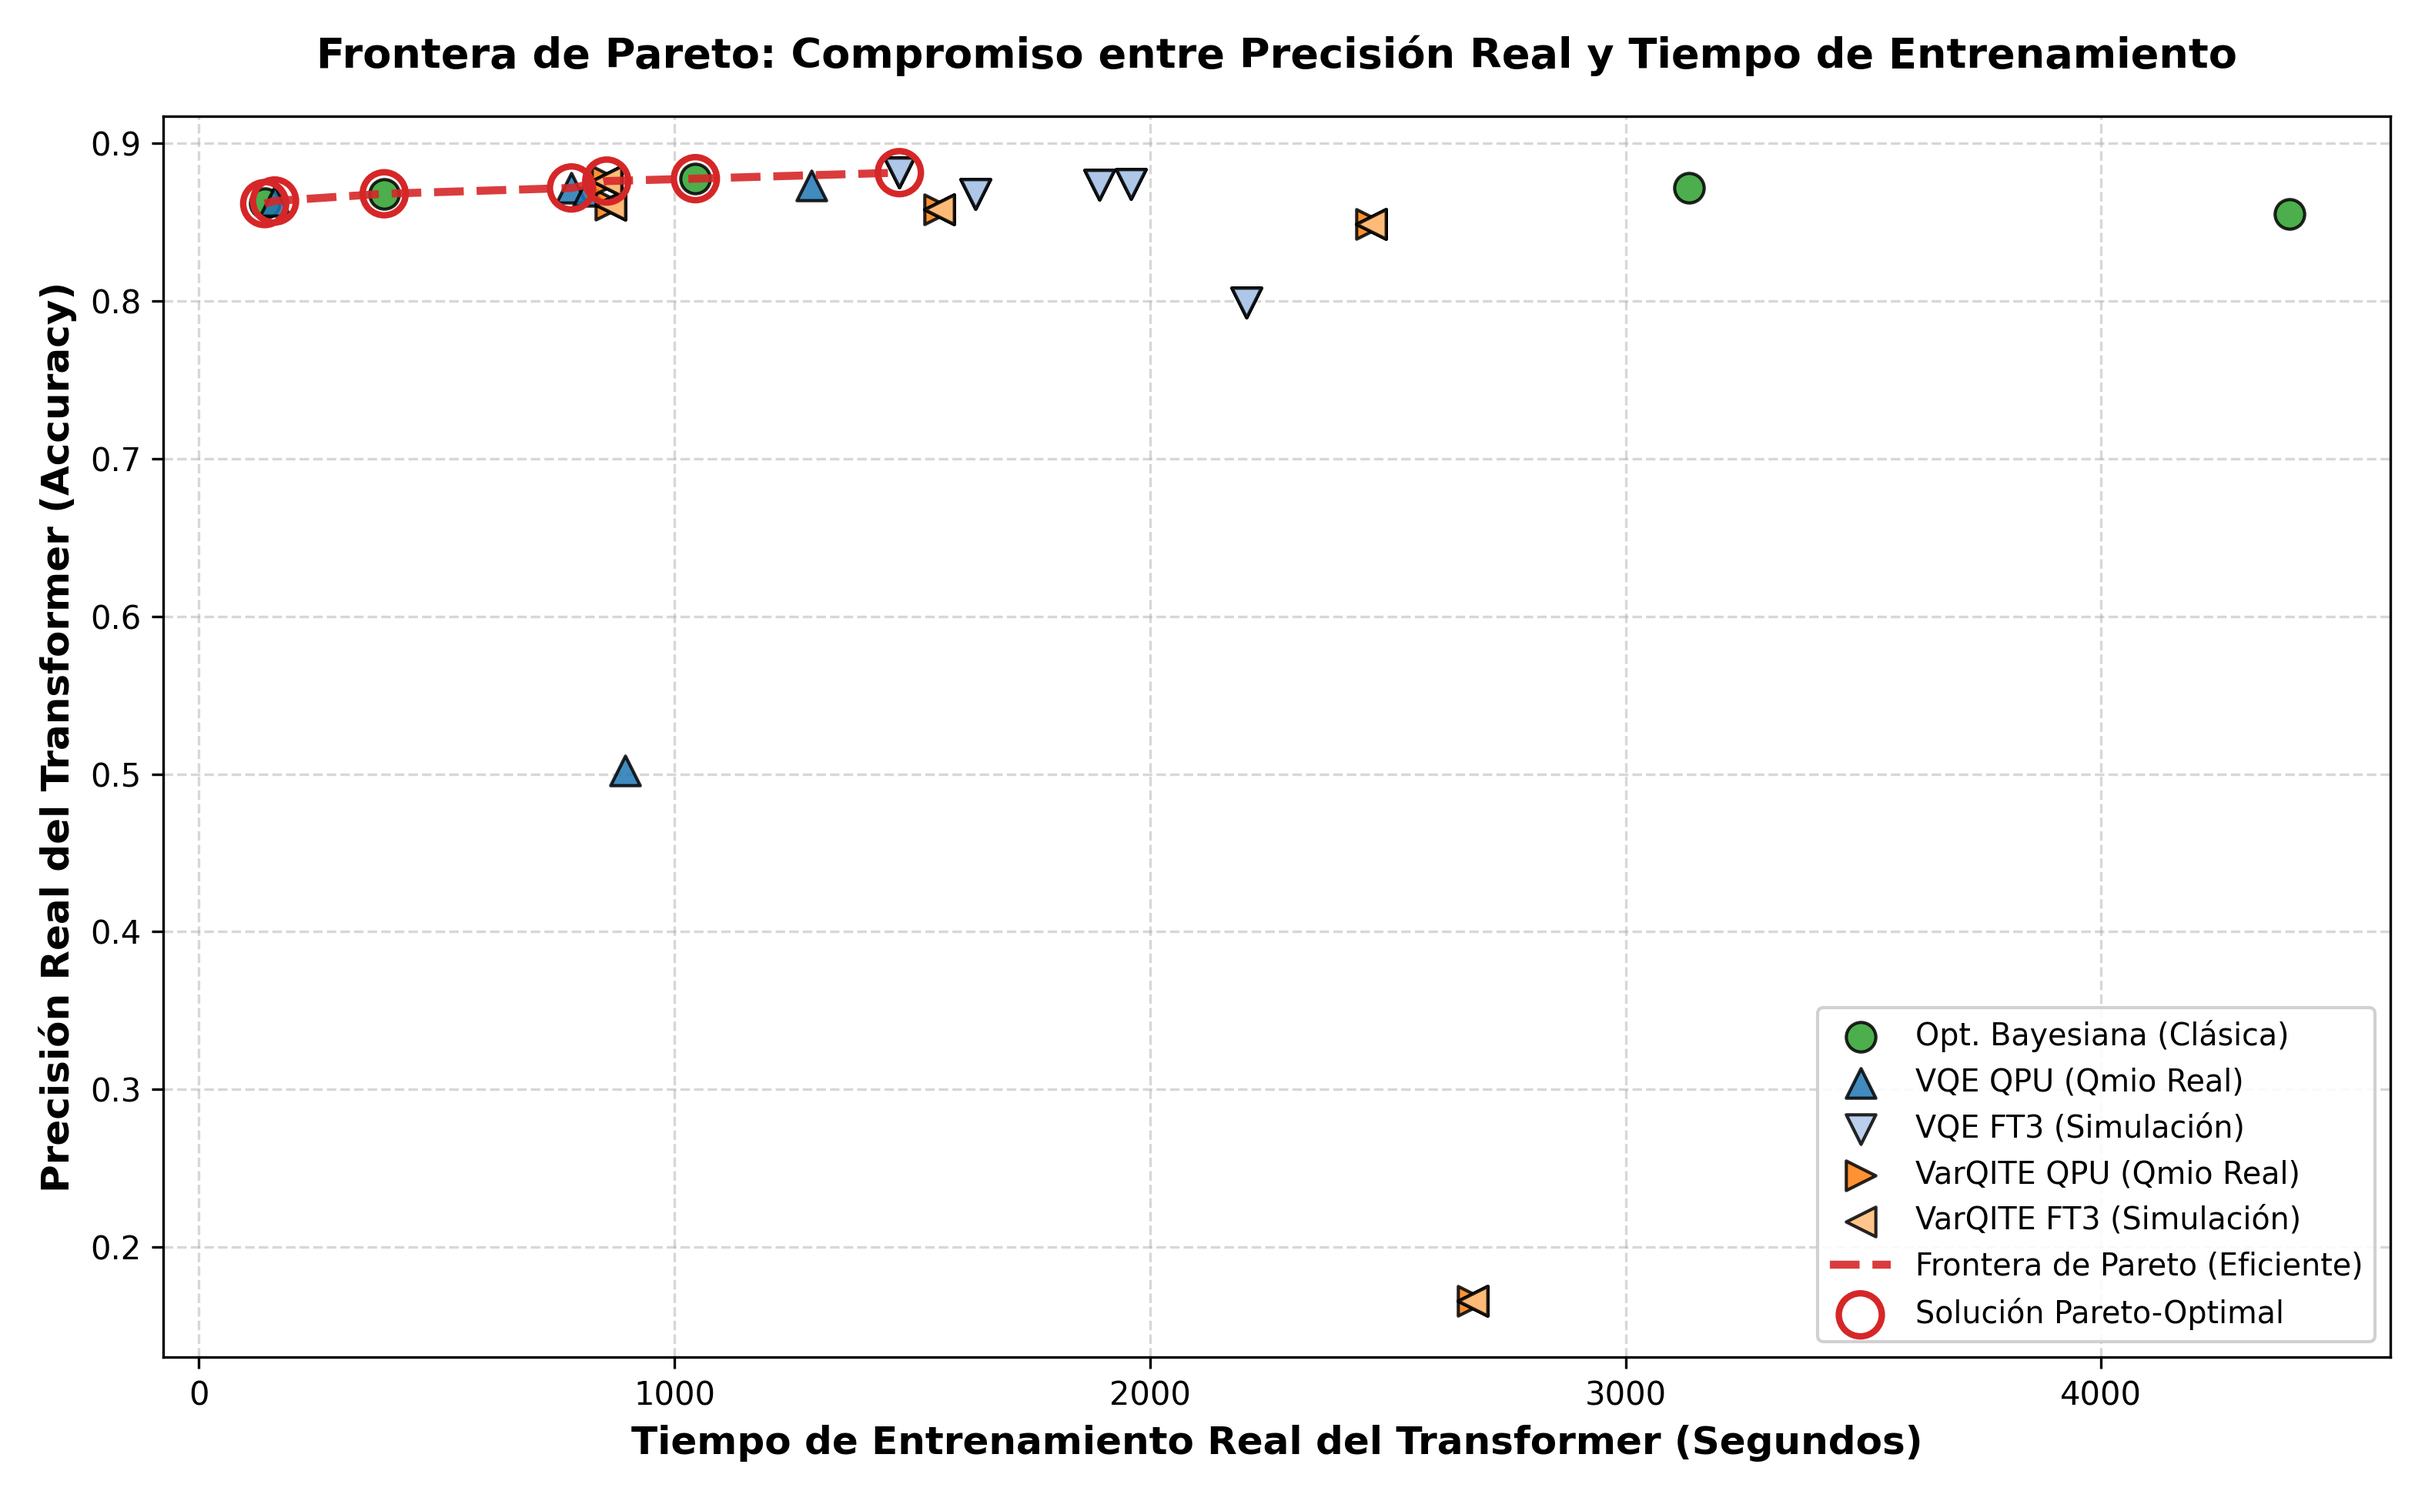
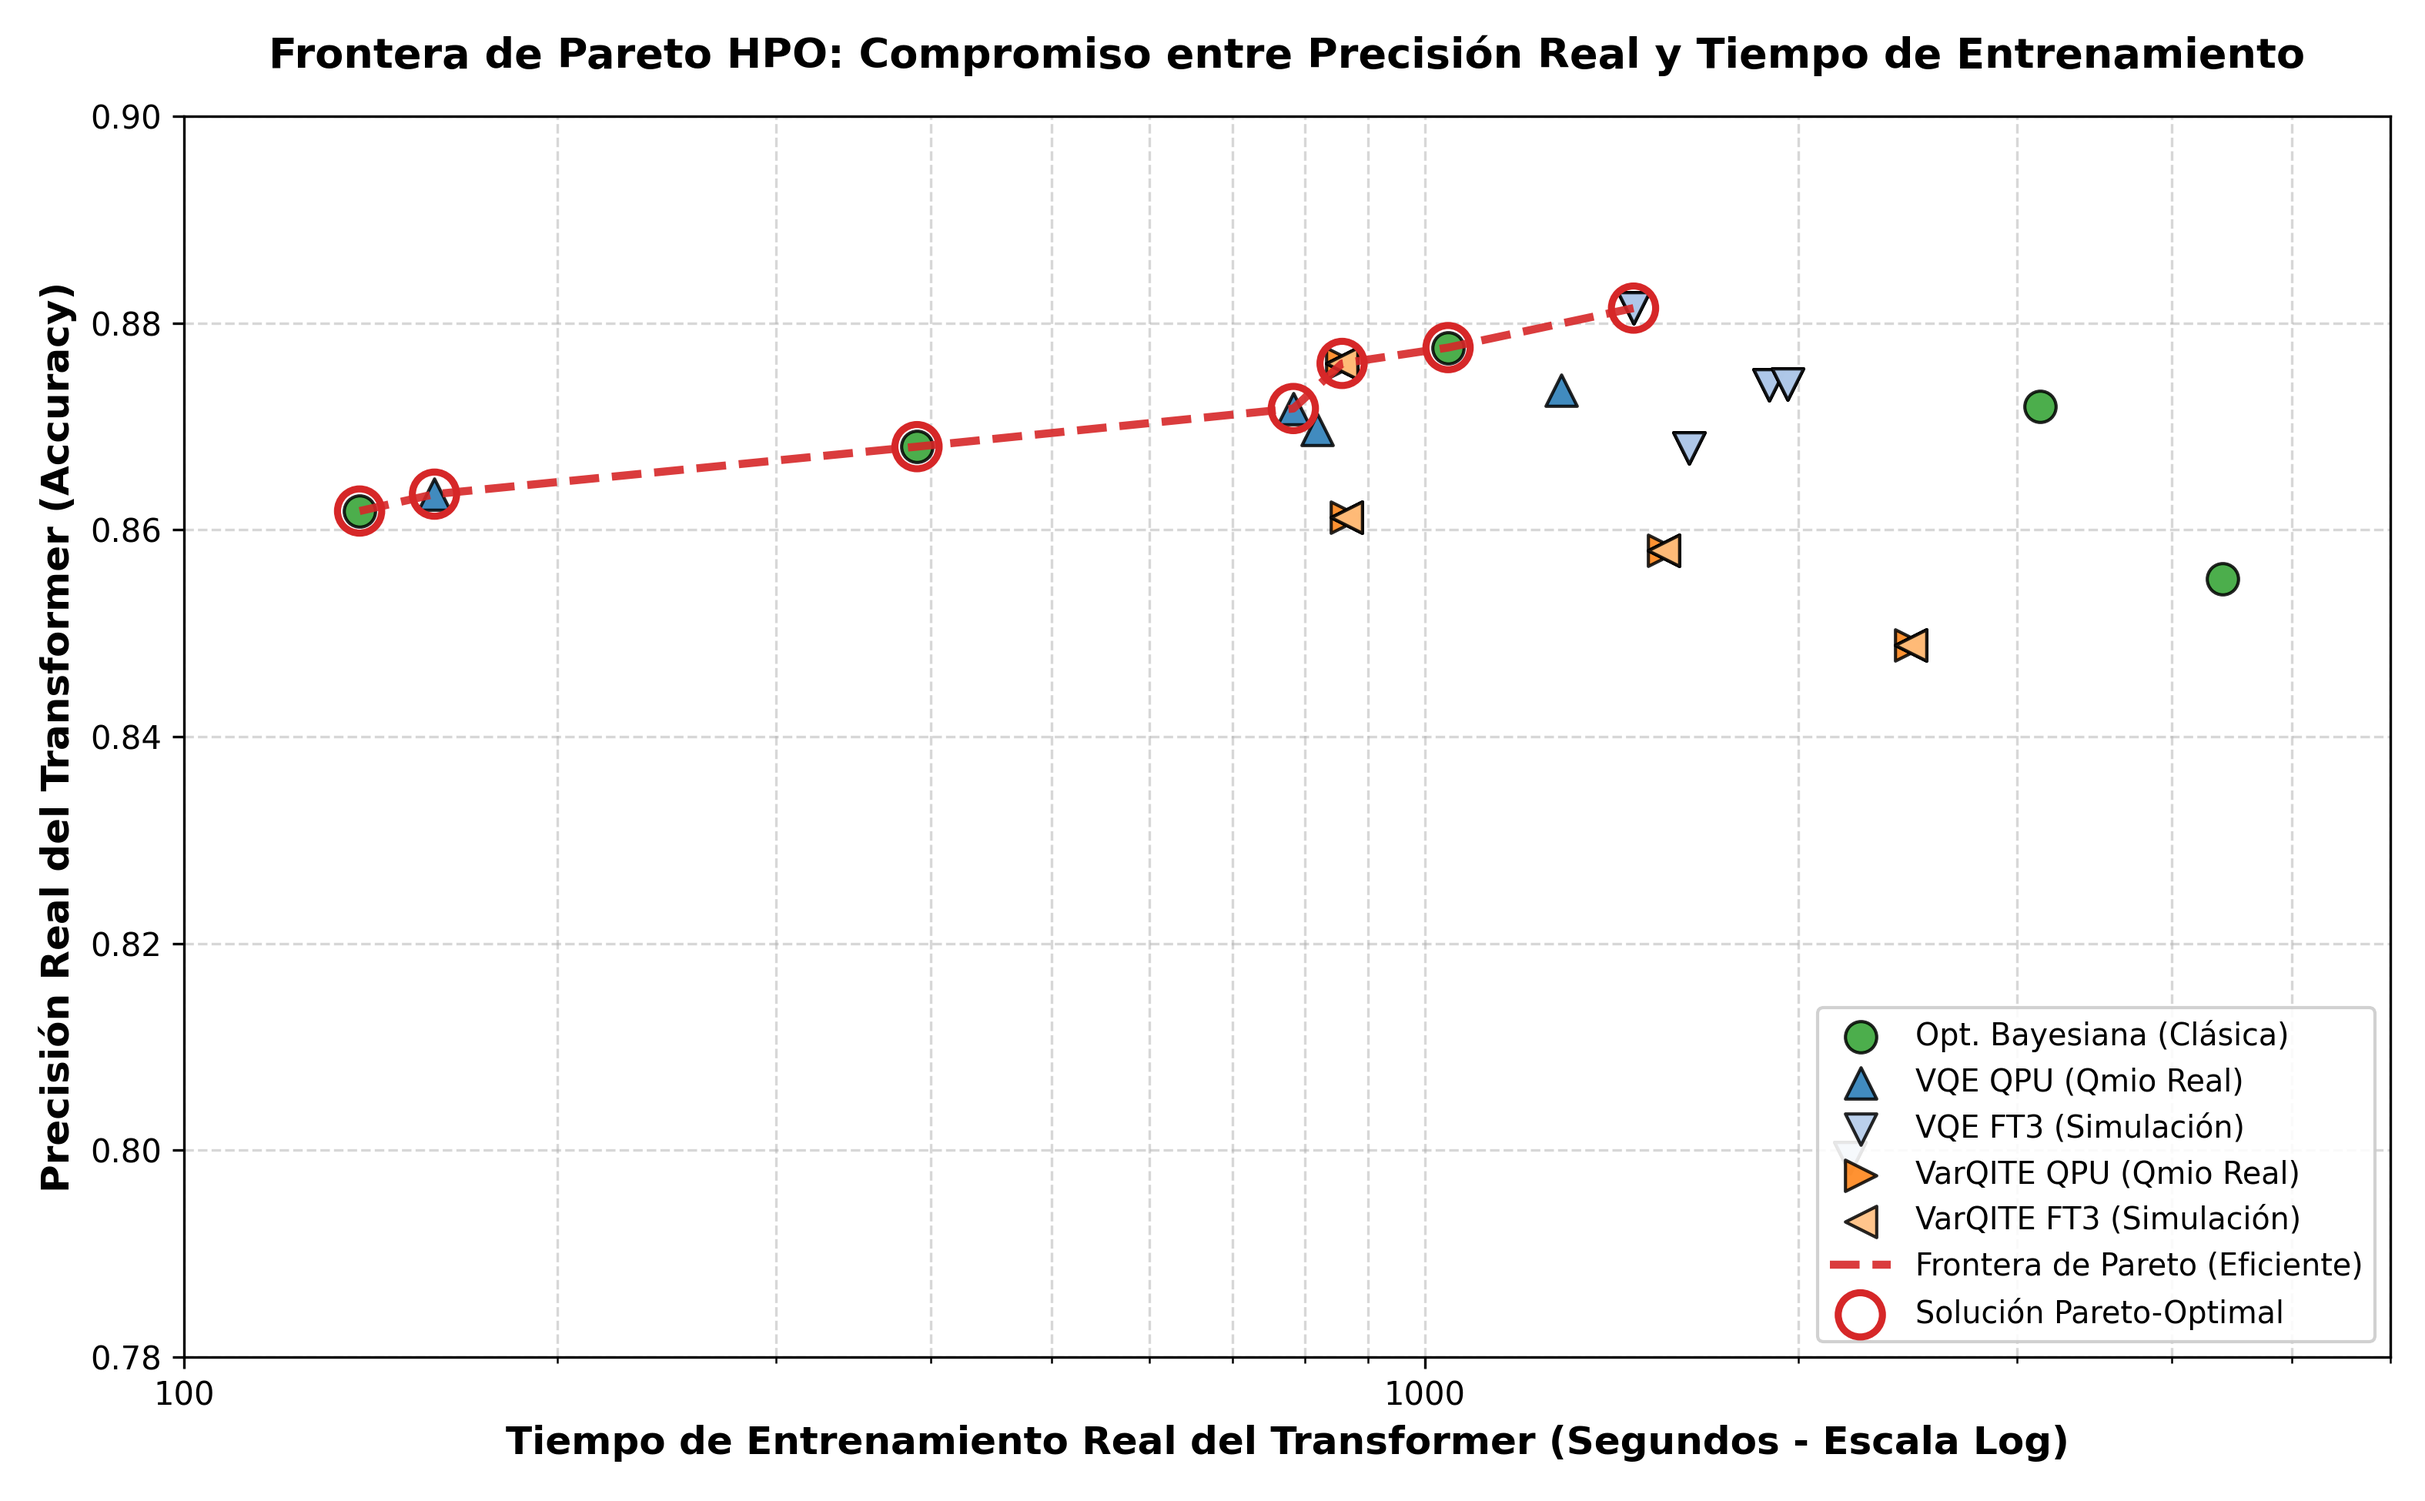
Zoom e introduccion de escala logaritmica en el eje X para mejorar la legibilidad de la frontera de Pareto

diff --git a/src/generate_plots.py b/src/generate_plots.py
@@ -348,33 +348,36 @@ def main():
     plt.savefig(os.path.join(res_dir, "comparativa_energia_desglosada.png"), dpi=300)
     plt.close()
 
-    # --- PLOT 9: PARETO FRONTIER (ACCURACY VS TIME) ---
+    # --- PLOT 9: PARETO FRONTIER (ACCURACY VS TIME - SCATTER PLOT) ---
     plt.figure(figsize=(10.5, 6.5))
-    plt.grid(True, linestyle='--', alpha=0.5, zorder=0)
+    plt.grid(True, linestyle='--', alpha=0.5, zorder=0, which='both')
 
     reales_csv = os.path.join(res_dir, "resultados_soluciones_reales.csv")
     reales_df = pd.read_csv(reales_csv)
 
+    # Filter out failed runs (Accuracy < 0.70) to prevent compressing the high-performance region
+    filtered_df = reales_df[reales_df['Final_Accuracy'] > 0.70]
+
     # Define groups for custom scatter coloring and shape
     groups = {
         'bayesiana': {
-            'df': reales_df[reales_df['Algoritmo'].str.contains('Bayesiana', case=False)],
+            'df': filtered_df[filtered_df['Algoritmo'].str.contains('Bayesiana', case=False)],
             'color': '#2ca02c', 'marker': 'o', 'label': 'Opt. Bayesiana (Clásica)'
         },
         'vqe-qmio': {
-            'df': reales_df[reales_df['Algoritmo'].str.contains('VQE físico|VQE fisico', case=False)],
+            'df': filtered_df[filtered_df['Algoritmo'].str.contains('VQE físico|VQE fisico', case=False)],
             'color': '#1f77b4', 'marker': '^', 'label': 'VQE QPU (Qmio Real)'
         },
         'vqe-ft3': {
-            'df': reales_df[reales_df['Algoritmo'].str.contains('Simulación VQE Sweep|Simulacion VQE Sweep', case=False)],
+            'df': filtered_df[filtered_df['Algoritmo'].str.contains('Simulación VQE Sweep|Simulacion VQE Sweep', case=False)],
             'color': '#aec7e8', 'marker': 'v', 'label': 'VQE FT3 (Simulación)'
         },
         'qite-qmio': {
-            'df': reales_df[reales_df['Algoritmo'].str.contains('VarQITE físico|VarQITE fisico', case=False)],
+            'df': filtered_df[filtered_df['Algoritmo'].str.contains('VarQITE físico|VarQITE fisico', case=False)],
             'color': '#ff7f0e', 'marker': '>', 'label': 'VarQITE QPU (Qmio Real)'
         },
         'qite-ft3': {
-            'df': reales_df[reales_df['Algoritmo'].str.contains('Simulación VarQITE Sweep|Simulacion VarQITE Sweep', case=False)],
+            'df': filtered_df[filtered_df['Algoritmo'].str.contains('Simulación VarQITE Sweep|Simulacion VarQITE Sweep', case=False)],
             'color': '#ffbb78', 'marker': '<', 'label': 'VarQITE FT3 (Simulación)'
         }
     }
@@ -385,13 +388,13 @@ def main():
         if not df_g.empty:
             plt.scatter(
                 df_g['Execution_Time_Seconds'], df_g['Final_Accuracy'],
-                color=g['color'], marker=g['marker'], s=85, edgecolor='black', alpha=0.85,
+                color=g['color'], marker=g['marker'], s=95, edgecolor='black', alpha=0.85,
                 label=g['label'], zorder=3
             )
 
     # Compute Pareto Frontier
     # Minimize time (x), Maximize accuracy (y)
-    all_points = list(zip(reales_df['Execution_Time_Seconds'].values, reales_df['Final_Accuracy'].values))
+    all_points = list(zip(filtered_df['Execution_Time_Seconds'].values, filtered_df['Final_Accuracy'].values))
     # Sort first by time ascending, then by accuracy descending
     sorted_points = sorted(all_points, key=lambda x: (x[0], -x[1]))
     pareto_front = []
@@ -410,14 +413,23 @@ def main():
         )
         
         plt.scatter(
-            pareto_x, pareto_y, facecolors='none', edgecolors='#d62728', s=180,
-            linewidths=2.0, zorder=5, label='Solución Pareto-Optimal'
+            pareto_x, pareto_y, facecolors='none', edgecolors='#d62728', s=190,
+            linewidths=2.2, zorder=5, label='Solución Pareto-Optimal'
         )
 
-    plt.xlabel('Tiempo de Entrenamiento Real del Transformer (Segundos)', fontsize=12, fontweight='bold')
+    plt.xscale('log')
+    # Custom format for log x-ticks to make them friendly
+    from matplotlib.ticker import FormatStrFormatter, NullFormatter
+    plt.gca().xaxis.set_major_formatter(FormatStrFormatter('%g'))
+    plt.gca().xaxis.set_minor_formatter(NullFormatter())
+    
+    plt.xlabel('Tiempo de Entrenamiento Real del Transformer (Segundos - Escala Log)', fontsize=12, fontweight='bold')
     plt.ylabel('Precisión Real del Transformer (Accuracy)', fontsize=12, fontweight='bold')
-    plt.title('Frontera de Pareto: Compromiso entre Precisión Real y Tiempo de Entrenamiento', fontsize=13, fontweight='bold', pad=15)
+    plt.title('Frontera de Pareto HPO: Compromiso entre Precisión Real y Tiempo de Entrenamiento', fontsize=13, fontweight='bold', pad=15)
     plt.legend(fontsize=9.5, loc='lower right', framealpha=0.9)
+    
+    plt.xlim(100, 6000)
+    plt.ylim(0.78, 0.90) # Symmetrical zoom to clear clutter and separate points beautifully
 
     plt.tight_layout()
     plt.savefig(os.path.join(res_dir, "frontera_pareto.png"), dpi=300)
